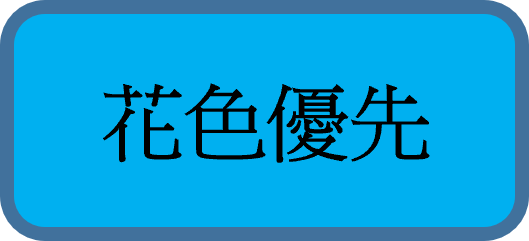
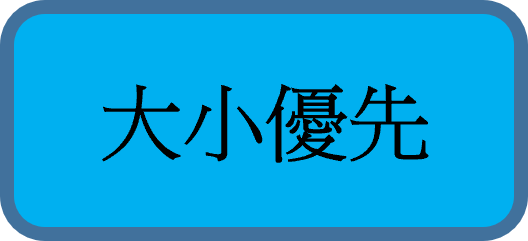
貼圖片，修正理牌

diff --git a/13支-單人遊戲-01157108+01157103.html b/13支-單人遊戲-01157108+01157103.html
@@ -34,6 +34,44 @@
                 left: 75%;
                 top: 245px;
             }
+            .system {
+                position: absolute;
+            }
+            #s1 {
+                width: 8%;
+                top: 34%;
+                left:6%;
+            }
+            #s2 {
+                width: 8%;
+                top: 34%;
+                left: 15%;
+            }
+            #s3 {
+                width: 7%;
+                top: 51%;
+                left: 2.5%;
+            }
+            #s4 {
+                width: 7%;
+                top: 51%;
+                left: 11%;
+            }
+            #s5 {
+                width: 7%;
+                top: 51%;
+                left: 20%;
+            }
+            #s6 {
+                width: 11.5%;
+                top: 67%;
+                left: 2%;
+            }
+            #s7 {
+                width: 11.5%;
+                top: 67%;
+                left: 15.5%;
+            }
         </style>
     </head >
     <body>
@@ -55,177 +93,182 @@
             <img src="imgs/n0.png" id="p14" class="cards" />
             <img src="imgs/n0.png" id="p15" class="cards" />
             <img src="imgs/n0.png" id="p16" class="cards" />
-            <img src="imgs/模擬1.png" id="s1" class="test1"/>
-            <img src="imgs/模擬2.png" id="s2" class="test2"/>
+            <img src="imgs/模擬1.png" class="test1" />
+            <img src="imgs/模擬2.png" class="test2" />
+            <img src="imgs/系統按鈕1.png" id="s1" class="system" />
+            <img src="imgs/系統按鈕2.png" id="s2" class="system" />
+            <img src="imgs/系統按鈕3.png" id="s3" class="system" />
+            <img src="imgs/系統按鈕4.png" id="s4" class="system" />
+            <img src="imgs/系統按鈕5.png" id="s5" class="system" />
+            <img src="imgs/系統按鈕6.png" id="s6" class="system" />
+            <img src="imgs/系統按鈕7.png" id="s7" class="system" />
         </div>
-        
-        <script>
-            //有poker串列用0~64代表牌庫，index[0]是彩金牌，index[1]~[16]是玩家1，index[17]~[32]是玩家2，index[33]~[48]是玩家，index[49]~[64]是玩家3的手牌
-            //牌型:數字1~13是梅花(c)1~13，14~26是方塊(d)1~13，27~39是紅心(h)1~13，40~65是(s)黑桃1~13共兩次
-            let poker = new Array(65);
-            let playerA = new Array(16);
-            let playerB = new Array(16);
-            let playerC = new Array(16);
-            let playerD = new Array(16);
-            let draw = [-1, -1, -1, -1, -1, -1, -1, -1, -1, -1, -1, -1, -1, -1, -1, -1];
-            let temp = 0;
-            let word = "";
-            let i = 0;
-            for (let i = 0; i < 65; i++) {//建立牌組
-                poker[i] = i + 1;
-            }
-            function shuffle() {//洗牌
-                poker.sort(() => Math.random() - 0.5);
-            }
-            function show() {
-                for (i = 0; i < 16; i++) {//顯示手牌
-                    document.querySelector("#p" + (i + 1)).style.left = i * 95 + 10 + "px";
-                    temp = Math.floor(playerA[i] / 13);
-                    switch (temp) {
-                        case 0://c
-                            word = "imgs/c" + playerA[i] + ".png";
-                            document.getElementById("p" + (i + 1)).src = word;
-                            break;
-                        case 1://d
-                            if (playerA[i] - 13 != 0) {
-                                word = "imgs/d" + (playerA[i] - 13) + ".png";
-                            }
-                            else {
-                                word = "imgs/c" + 13 + ".png";
-                            }
-                            document.getElementById("p" + (i + 1)).src = word;
-                            break;
-                        case 2://h
-                            if (playerA[i] - 26 != 0) {
-                                word = "imgs/h" + (playerA[i] - 26) + ".png";
-                            }
-                            else {
-                                word = "imgs/d" + 13 + ".png";
-                            }
-                            document.getElementById("p" + (i + 1)).src = word;
-                            break;
-                        case 3://s
-                            if (playerA[i] - 39 != 0) {
-                                word = "imgs/s" + (playerA[i] - 39) + ".png";
-                            }
-                            else {
-                                word = "imgs/h" + 13 + ".png";
-                            }
-                            document.getElementById("p" + (i + 1)).src = word;
-                            break;
-                        case 4://s
-                            if (playerA[i] - 52 != 0) {
-                                word = "imgs/s" + (playerA[i] - 52) + ".png";
-                            }
-                            else {
-                                word = "imgs/s" + 13 + ".png";
-                            }
-                            document.getElementById("p" + (i + 1)).src = word;
-                            break;
-                        case 5://s
-                            word = "imgs/s" + 13 + ".png";
-                            document.getElementById("p" + (i + 1)).src = word;
-                            break;
-                    }
-                    document.querySelector("#p" + (i + 1)).style.display = "initial";//未來有機會改成用動畫
+
+            <script>
+                //有poker串列用0~64代表牌庫，index[0]是彩金牌，index[1]~[16]是玩家1，index[17]~[32]是玩家2，index[33]~[48]是玩家，index[49]~[64]是玩家3的手牌
+                //牌型:數字1~13是梅花(c)1~13，14~26是方塊(d)1~13，27~39是紅心(h)1~13，40~65是(s)黑桃1~13共兩次
+                let poker = new Array(65);
+                let playerA = new Array(16);
+                let playerB = new Array(16);
+                let playerC = new Array(16);
+                let playerD = new Array(16);
+                let draw = [-1, -1, -1, -1, -1, -1, -1, -1, -1, -1, -1, -1, -1, -1, -1, -1];
+                let temp = 0;
+                let word = "";
+                let i = 0;
+                for (let i = 0; i < 65; i++) {//建立牌組
+                    poker[i] = i + 1;
                 }
-            }
-            function deal() {//洗牌並發牌給玩家
-                shuffle();
-                document.querySelector("#deal").style.display = "none";
-                for (i = 1; i <= 16; i++) {//發牌(方便使用整理功能而重建)//0~15
-                    playerA[i - 1] = poker[i];
-                    playerB[i - 1] = poker[i + 16];
-                    playerC[i - 1] = poker[i + 32];
-                    playerD[i - 1] = poker[i + 48];
+                function shuffle() {//洗牌
+                    poker.sort(() => Math.random() - 0.5);
                 }
-                show();
-                console.log(poker);//檢查用，後面要刪除
-                console.log(playerA);//檢查用，後面要刪除                
-                operate();//操作
-            }
-            function operate() {
-                //顯示按鈕圖片(未實作)
-                i = 0;//draw的張數
-                let test = 0;
-                //let num = 0;
-                document.getElementById("all").addEventListener("click", function (e) {
-                    word = e.target.id;//word用來分辨觸發點擊的物件ID(p:撲克牌 s:系統按鈕 c:牌型按鈕)
-                    if (word[0] == 'p') {//點選撲克牌的場合
-                        if (word.length == 2) {
-                            temp = parseInt(word[1]);//temp是第N張手牌
-                        }
-                        else {
-                            temp = parseInt(word[1]) * 10 + parseInt(word[2]);
-                        }
-                        test = -1;
-                        for (let j = 0; j < 16; j++) {
-                            if (draw[j] == temp) {
-                                test = j;
+                function show() {
+                    for (i = 0; i < 16; i++) {//顯示手牌
+                        document.querySelector("#p" + (i + 1)).style.left = i * 95 + 10 + "px";
+                        temp = Math.floor(playerA[i] / 13);
+                        switch (temp) {
+                            case 0://c
+                                word = "imgs/c" + playerA[i] + ".png";
+                                document.getElementById("p" + (i + 1)).src = word;
                                 break;
-                            }
+                            case 1://d
+                                if (playerA[i] - 13 != 0) {
+                                    word = "imgs/d" + (playerA[i] - 13) + ".png";
+                                }
+                                else {
+                                    word = "imgs/c" + 13 + ".png";
+                                }
+                                document.getElementById("p" + (i + 1)).src = word;
+                                break;
+                            case 2://h
+                                if (playerA[i] - 26 != 0) {
+                                    word = "imgs/h" + (playerA[i] - 26) + ".png";
+                                }
+                                else {
+                                    word = "imgs/d" + 13 + ".png";
+                                }
+                                document.getElementById("p" + (i + 1)).src = word;
+                                break;
+                            case 3://s
+                                if (playerA[i] - 39 != 0) {
+                                    word = "imgs/s" + (playerA[i] - 39) + ".png";
+                                }
+                                else {
+                                    word = "imgs/h" + 13 + ".png";
+                                }
+                                document.getElementById("p" + (i + 1)).src = word;
+                                break;
+                            case 4://s
+                                if (playerA[i] - 52 != 0) {
+                                    word = "imgs/s" + (playerA[i] - 52) + ".png";
+                                }
+                                else {
+                                    word = "imgs/s" + 13 + ".png";
+                                }
+                                document.getElementById("p" + (i + 1)).src = word;
+                                break;
+                            case 5://s
+                                word = "imgs/s" + 13 + ".png";
+                                document.getElementById("p" + (i + 1)).src = word;
+                                break;
                         }
-                        if (test == -1) {//不在draw裡就加進draw
-                            document.querySelector("#" + word).style.top = 580 + "px";
+                        document.querySelector("#p" + (i + 1)).style.display = "initial";//未來有機會改成用動畫
+                    }
+                }
+                function deal() {//洗牌並發牌給玩家
+                    shuffle();
+                    document.querySelector("#deal").style.display = "none";
+                    for (i = 1; i <= 16; i++) {//發牌(方便使用整理功能而重建)//0~15
+                        playerA[i - 1] = poker[i];
+                        playerB[i - 1] = poker[i + 16];
+                        playerC[i - 1] = poker[i + 32];
+                        playerD[i - 1] = poker[i + 48];
+                    }
+                    show();
+                    console.log(poker);//檢查用，後面要刪除
+                    console.log(playerA);//檢查用，後面要刪除
+                    operate();//操作
+                }
+                function operate() {
+                    //顯示按鈕圖片(未實作)
+                    i = 0;//draw的張數
+                    let test = 0;
+                    //let num = 0;
+                    document.getElementById("all").addEventListener("click", function (e) {
+                        word = e.target.id;//word用來分辨觸發點擊的物件ID(p:撲克牌 s:系統按鈕 c:牌型按鈕)
+                        if (word[0] == 'p') {//點選撲克牌的場合
+                            if (word.length == 2) {
+                                temp = parseInt(word[1]);//temp是第N張手牌
+                            }
+                            else {
+                                temp = parseInt(word[1]) * 10 + parseInt(word[2]);
+                            }
+                            test = -1;
                             for (let j = 0; j < 16; j++) {
-                                if (draw[j] == -1) {
-                                    draw[j] = temp;
-                                    i++;
+                                if (draw[j] == temp) {
+                                    test = j;
                                     break;
                                 }
                             }
-                            console.log(draw);
-                        }
-                        else {//在draw裡就丟出draw
-                            document.querySelector("#" + word).style.top = 610 + "px";
-                            draw[test] = -1;
-                            i--;
-                            console.log(draw);
-                        }
-                    }
-                    else
-                    if (word[0] == 's') {//點選系統按鈕的場合
-                        temp = parseInt(word[1]);
-                        if (temp == 1) {//依照花色
-                            for (let j = 0; j < 16; j++) {
-                                if (draw[j] != -1) {
-                                    alert(draw[j])
-                                    document.querySelector("#p" + draw[j]).style.top = 610 + "px";
-                                    draw[j] = -1;
+                            if (test == -1) {//不在draw裡就加進draw
+                                document.querySelector("#" + word).style.top = 580 + "px";
+                                for (let j = 0; j < 16; j++) {
+                                    if (draw[j] == -1) {
+                                        draw[j] = temp;
+                                        i++;
+                                        break;
+                                    }
                                 }
+                                console.log(draw);
                             }
-                            i = 0;
-                            playerA.sort(function (a, b) {
-                                return a - b;
-                            });
-                            show();
-                        }
-                        else {//依照大小
-                            for (let j = 0; j < 16; j++) {
-                                if (draw[j] != -1) {
-                                    document.querySelector("#p" + draw[j]).style.top = 610 + "px";
-                                    draw[j] = -1;
-                                }
+                            else {//在draw裡就丟出draw
+                                document.querySelector("#" + word).style.top = 610 + "px";
+                                draw[test] = -1;
+                                i--;
+                                console.log(draw);
                             }
-                            i = 0;
-                            playerA.sort(function (a, b) {
-                                while (a > 13) {
-                                    a -= 13;
-                                }
-                                while (b > 13) {
-                                    b -= 13;
-                                }
-                                return a - b;
-                            });
-                            show();
                         }
+                        else
+                        if (word[0] == 's') {//點選系統按鈕的場合                              
+                            temp = parseInt(word[1]);                         
+                            if (temp == 6) {//依照大小
+                                for (let j = 0; j < 16; j++) {
+                                    if (draw[j] != -1) {
+                                        document.querySelector("#p" + draw[j]).style.top = 610 + "px";
+                                        draw[j] = -1;
+                                    }
+                                }
+                                i = 0;
+                                playerA.sort(function (a, b) {
+                                    while (a > 13) {
+                                        a -= 13;
+                                    }
+                                    while (b > 13) {
+                                        b -= 13;
+                                    }
+                                    return a - b;                                    
+                                });
+                                show();
+                            }
+                            else {//依照花色
+                                for (let j = 0; j < 16; j++) {
+                                    if (draw[j] != -1) {
+                                        document.querySelector("#p" + draw[j]).style.top = 610 + "px";
+                                        draw[j] = -1;
+                                    }
+                                }
+                                i = 0;
+                                playerA.sort(function (a, b) {
+                                        return a - b;
+                                });
+                                show();
+                            }
+                        }
+                        else {//點選牌型的場合
 
-                    }   
-                    else {//點選牌型的場合
-
-                    }
-                }, false);
-            }
-        </script>
-    </body>
-</html >
+                        }
+                    }, false);
+                }
+            </script>
+        </body>
+    </html >
